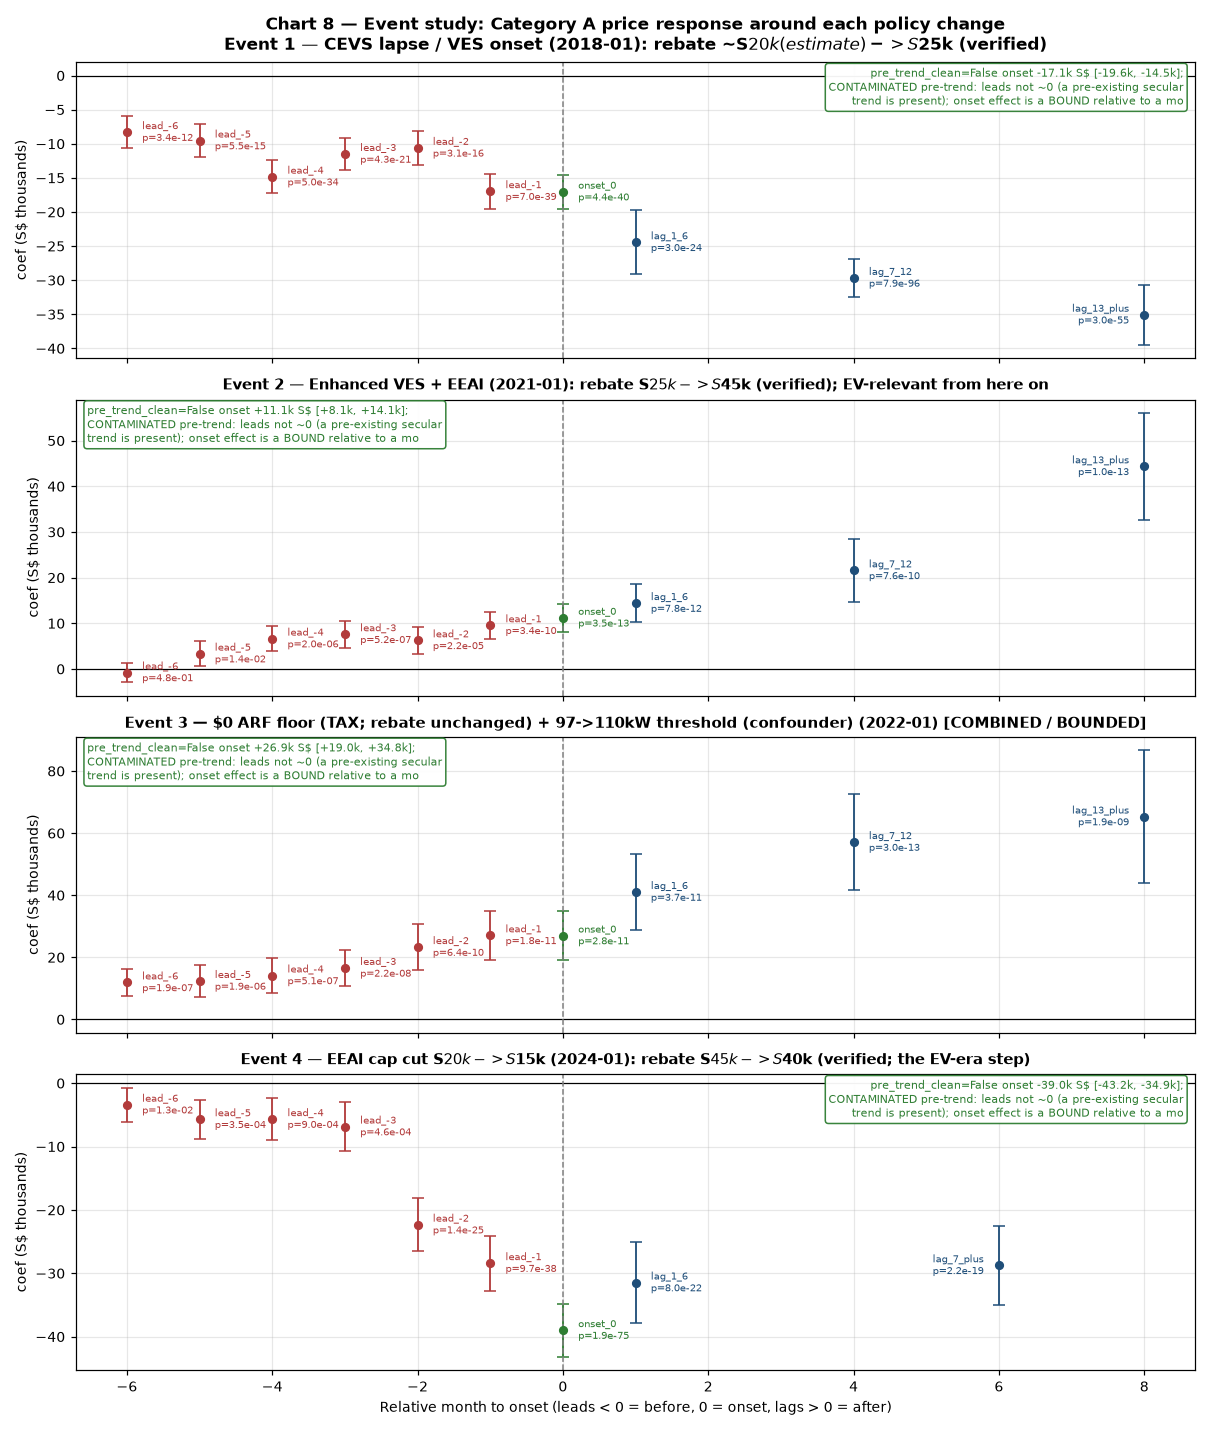
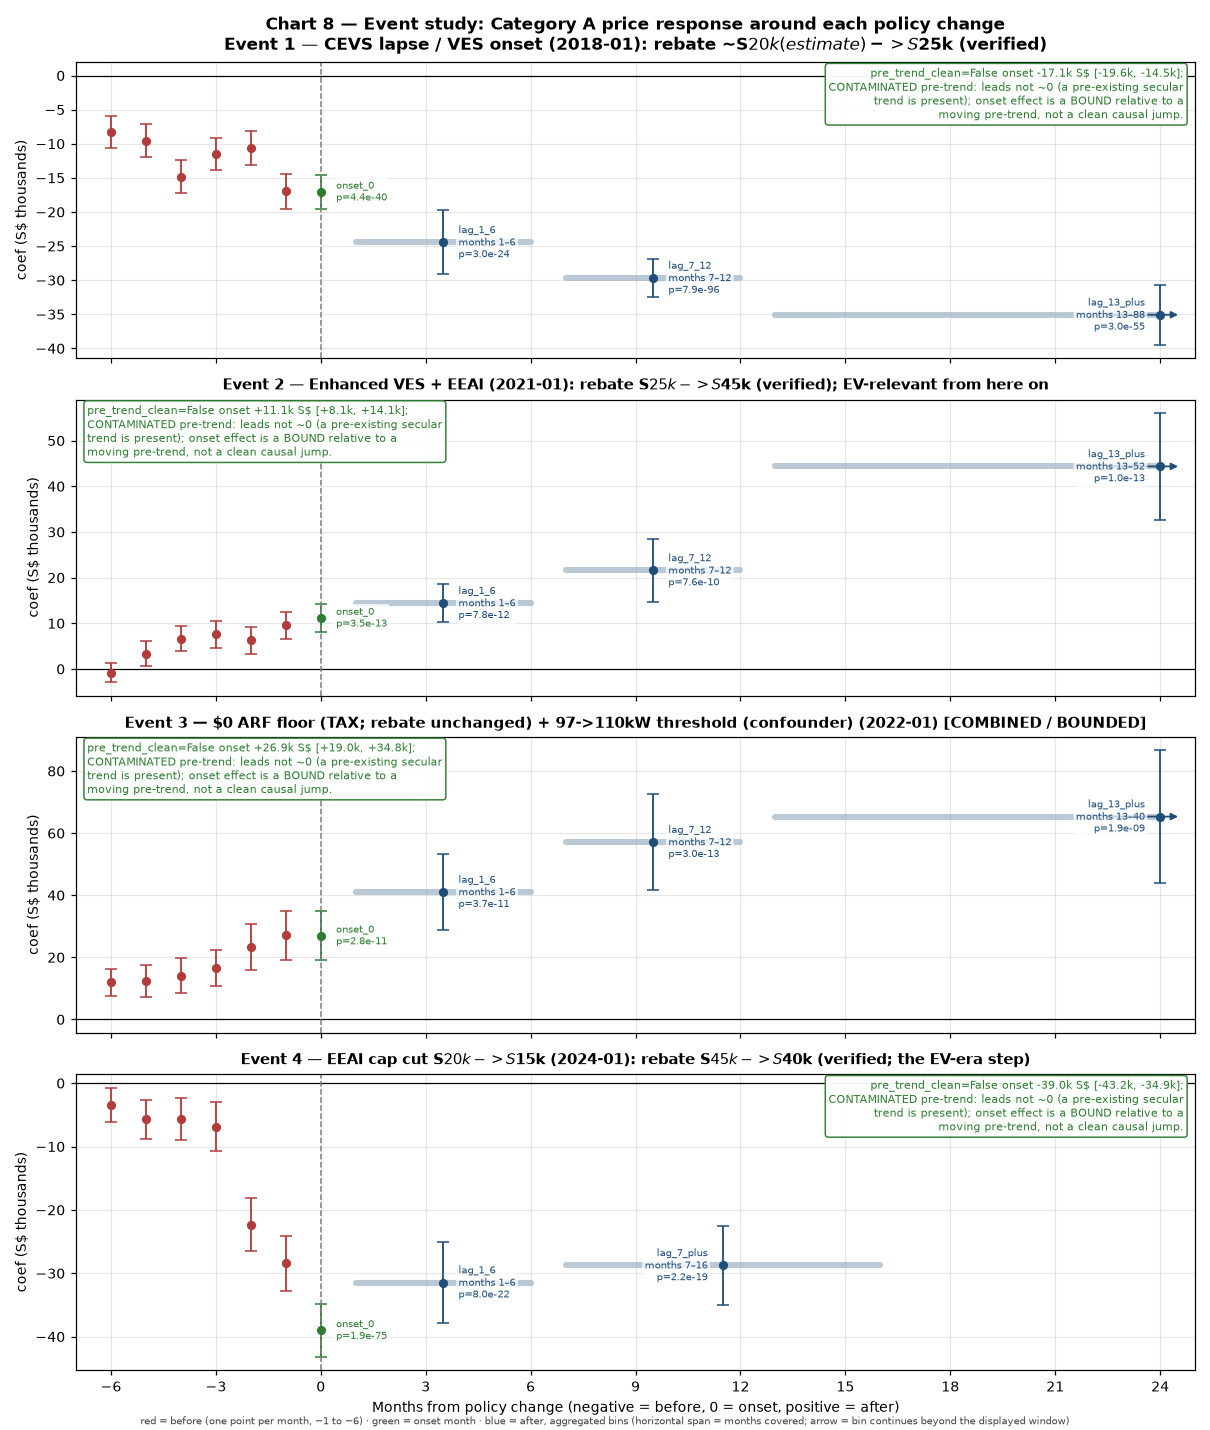
Figure 8: uniform month scale; show lag-bin spans explicitly
Post-onset months are estimated in bins (1-6, 7-12, 13+), which were
plotted at arbitrary x slots while pre-onset points sat at their true
months - the horizontal scale was uneven. Now every point is at its
true relative month on one uniform scale (all panels, -6..+24): bins
are plotted at their midpoint with a horizontal span bar marking the
months covered (labeled 'months 1-6' etc.), bins beyond +24 are
clipped with an arrow, per-lead labels are dropped (the axis shows
each month) and a color key line is added at the bottom. Also fixed
the corner verdict boxes truncating the pre-trend sentence mid-word
(now cut at a sentence boundary), and the README caption explains the
bins.

diff --git a/src/13_charts.py b/src/13_charts.py
@@ -559,20 +559,30 @@ def chart08() -> None:
     pre = pd.read_csv(TABLES / "event_study_prechecks.csv")
     es.to_csv(TABLES / "chart08_event_study.csv", index=False)
 
-    # term -> integer x position (lead -k at -k, onset at 0, lag groups ordered)
-    def xpos(term: str) -> int:
-        if term.startswith("lead_-"):
-            # the trailing token already carries the minus sign ("lead_-6"
-            # -> -6), so no extra negation
-            return int(term.split("_")[-1])
-        if term == "onset_0":
-            return 0
-        m = {
-            "lag_1_6": 1, "lag_7_12": 4, "lag_13_plus": 8,
-            "lag_1_12": 4, "lag_13_plus": 8,
-            "lag_7_plus": 6,
-        }
-        return m.get(term, 1)
+    # --- true relative-month positions (uniform x scale) ---
+    # Leads are single months (-1..-6) and onset is 0; post-onset months are
+    # estimated in BINS, so each bin is plotted at its midpoint, with a span
+    # bar showing the months it covers. The display window stops at +24
+    # months; bins extending beyond it are clipped with an arrow.
+    frame = D.load_estimation_frame()
+    panel_end = frame["month"].astype(str).max()
+
+    def mindex(ym: str) -> int:
+        y, m = ym.split("-")
+        return int(y) * 12 + (int(m) - 1)
+
+    def bin_range(term: str, max_lag: int):
+        if term == "lag_1_6":
+            return (1, 6)
+        if term == "lag_7_12":
+            return (7, 12)
+        if term == "lag_13_plus":
+            return (13, max_lag)
+        if term == "lag_7_plus":
+            return (7, max_lag)
+        return None
+
+    XMAX = 24.0  # display window: 6 months before .. 24 months after
 
     episodes = [
         ("2018-01_cevs_lapse_VES_onset",
@@ -591,9 +601,22 @@ def chart08() -> None:
     fig, axes = plt.subplots(4, 1, figsize=(11, 13), sharex=True)
     for ax, (ep, title) in zip(axes, episodes):
         sub = es[es["episode"] == ep].copy()
-        sub["x"] = sub["term"].map(xpos)
-        sub = sub.sort_values("x")
-        xmax = sub["x"].max()
+        max_lag = mindex(panel_end) - mindex(ep.split("_")[0])
+
+        def tpos(t: str) -> float:
+            if t.startswith("lead_-"):
+                return float(int(t.split("_")[-1]))
+            if t == "onset_0":
+                return 0.0
+            rng = bin_range(t, max_lag)
+            if rng is None:
+                raise SystemExit(f"HARD-FAIL: unknown event-study term {t!r}")
+            return (rng[0] + rng[1]) / 2
+
+        sub["x"] = [tpos(t) for t in sub["term"]]
+        sub["xplot"] = sub["x"].clip(upper=XMAX)
+        sub = sub.sort_values("xplot")
+        xmax = sub["xplot"].max()
         for r in sub.itertuples():
             if r.role == "lead":
                 c = "#b23b3b"   # contaminated pre-trend
@@ -601,27 +624,52 @@ def chart08() -> None:
                 c = "#2e7d32"
             else:
                 c = "#1f4e79"
+            rng = bin_range(r.term, max_lag)
+            if rng:
+                s, e = rng
+                ax.plot([s, min(e, XMAX)], [r.coef / 1000] * 2,
+                        color=c, lw=4, alpha=0.30, solid_capstyle="round",
+                        zorder=1)
+                if e > XMAX:
+                    ax.annotate(
+                        "", xy=(XMAX + 0.6, r.coef / 1000),
+                        xytext=(XMAX - 1.6, r.coef / 1000),
+                        arrowprops=dict(arrowstyle="-|>", color=c, lw=1.2),
+                    )
             ax.errorbar(
-                r.x, r.coef / 1000,
+                r.xplot, r.coef / 1000,
                 yerr=[[r.coef / 1000 - r.ci_lo / 1000], [r.ci_hi / 1000 - r.coef / 1000]],
                 fmt="o", color=c, ecolor=c, elinewidth=1.2, capsize=4, ms=5,
             )
-            # label sits to the SIDE of the point: never crosses the marker
-            # dot or the CI bar; rightmost point labels left (inside panel)
-            if r.x >= xmax:
+            # per-point labels only for onset + lag bins (the leads are
+            # single months, already positioned on the x axis)
+            if r.role == "lead":
+                continue
+            lab = r.term
+            if rng:
+                lab += f"\nmonths {rng[0]}–{rng[1]}"
+            lab += f"\np={r.p:.1e}"
+            # label sits to the SIDE of the point: rightmost point labels
+            # left (inside panel)
+            if r.xplot >= xmax:
                 ax.annotate(
-                    f"{r.term}\np={r.p:.1e}", xy=(r.x, r.coef / 1000),
+                    lab, xy=(r.xplot, r.coef / 1000),
                     xytext=(-10, 0), textcoords="offset points",
                     ha="right", va="center", fontsize=6.4, color=c,
+                    bbox=dict(boxstyle="round,pad=0.25", fc="white",
+                              ec="none", alpha=0.75),
                 )
             else:
                 ax.annotate(
-                    f"{r.term}\np={r.p:.1e}", xy=(r.x, r.coef / 1000),
+                    lab, xy=(r.xplot, r.coef / 1000),
                     xytext=(10, 0), textcoords="offset points",
                     ha="left", va="center", fontsize=6.4, color=c,
+                    bbox=dict(boxstyle="round,pad=0.25", fc="white",
+                              ec="none", alpha=0.75),
                 )
         ax.axhline(0, color="black", lw=0.8)
         ax.axvline(0, color="gray", ls="--", lw=1)
+        ax.set_xlim(-7, XMAX + 1)
         ax.set_title(title, fontsize=9.5)
         ax.set_ylabel("coef (S$ thousands)")
 
@@ -646,10 +694,13 @@ def chart08() -> None:
             onset_txt = (f" onset {o['coef']/1000:+.1f}k S$ "
                          f"[{o['ci_lo']/1000:+.1f}k, {o['ci_hi']/1000:+.1f}k]")
         x_frac, ha = corner[ep]
+        interp = str(p["pre_trend_interpretation"])
+        if len(interp) > 170:  # truncate at a sentence boundary, never mid-word
+            interp = interp[:170].rsplit(". ", 1)[0].rstrip() + "."
         ax.annotate(
             textwrap.fill(
                 f"pre_trend_clean={p['pre_trend_clean']}{onset_txt}; "
-                + p["pre_trend_interpretation"][:120], width=62),
+                + interp, width=62),
             xy=(x_frac, 0.985), xycoords="axes fraction", ha=ha, va="top",
             fontsize=7.0,
             color="#b23b3b" if not p["pre_trend_clean"] else "#2e7d32",
@@ -657,7 +708,9 @@ def chart08() -> None:
                       ec="#b23b3b" if not p["pre_trend_clean"] else "#2e7d32",
                       alpha=0.95),
         )
-    axes[-1].set_xlabel("Relative month to onset (leads < 0 = before, 0 = onset, lags > 0 = after)")
+    axes[-1].set_xlabel(
+        "Months from policy change (negative = before, 0 = onset, positive = after)")
+    axes[-1].set_xticks([-6, -3, 0, 3, 6, 9, 12, 15, 18, 21, 24])
     # overall figure title on the top panel (consistent with the other charts)
     axes[0].set_title(
         "Chart 8 — Event study: Category A price response around each policy change\n"
@@ -665,6 +718,13 @@ def chart08() -> None:
         pad=8,
     )
     fig.tight_layout()
+    fig.text(
+        0.5, 0.004,
+        "red = before (one point per month, −1 to −6) · green = onset month · "
+        "blue = after, aggregated bins (horizontal span = months covered; "
+        "arrow = bin continues beyond the displayed window)",
+        ha="center", fontsize=6.8, color="#444444",
+    )
     fig.savefig(CHARTS / "08_event_study.png")
     plt.close(fig)
     print("[chart08] wrote charts/08_event_study.png + tables/chart08_event_study.csv")

diff --git a/README.md b/README.md
@@ -296,7 +296,9 @@ changes, with uncertainty bars.
 
 *One panel per policy change (2018 VES, 2021 EEAI, 2022 tax floor, 2024 cap
 cut). The left side of each panel (months *before* the change) already shows
-large non-zero moves — the pre-trend problem.*
+large non-zero moves — the pre-trend problem. The right side shows
+aggregated bins (months 1–6, 7–12, 13 onward; the horizontal span marks the
+months covered, an arrow means the bin runs beyond the displayed window).*
 
 ### 4.8. What we can and can't claim
 
